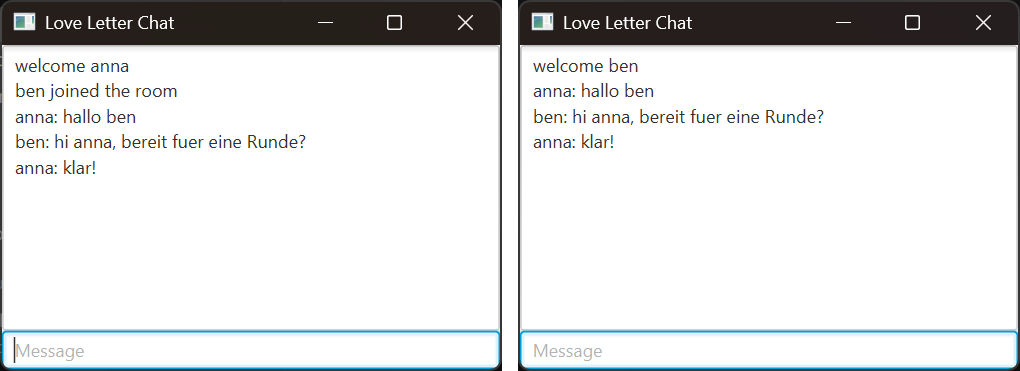
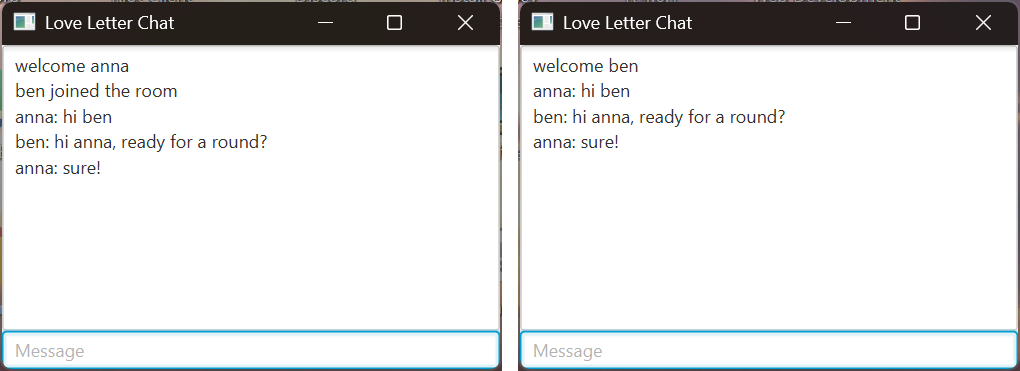
Translate README to English, add quick start and UML diagram

diff --git a/README.md b/README.md
@@ -1,14 +1,27 @@
-# Love Letter – Vorprojekt (SEP, LMU, WiSe 2026/27)
+# Love Letter – Preliminary Project (SEP, LMU, Winter Term 2026/27)
 
-Chatsystem über TCP: beliebig viele Clients melden sich mit einem eindeutigen Namen beim Server an
-und chatten miteinander. Dazu das Datenmodell für Love Letter (2–4 Spieler).
+Chat system over TCP: any number of clients log in to the server with a unique name and chat with
+each other. Also includes the data model for Love Letter (2–4 players).
 
-## Voraussetzungen
+## Quick start
 
-- JDK 27 (`java -version` muss 27 zeigen; sonst `JAVA_HOME` auf ein JDK 27 setzen)
-- Maven 3.9 oder neuer
-- JavaFX 27 muss nicht installiert werden: Maven lädt es als Dependency `org.openjfx:javafx-controls`
-  (der Maven-Weg aus den openjfx-docs), deshalb ist kein JavaFX-SDK und kein SDK-Pfad nötig.
+```powershell
+mvn package
+java -jar target/loveletter-jar-with-dependencies.jar server
+java -jar target/loveletter-jar-with-dependencies.jar gui
+java -jar target/loveletter-jar-with-dependencies.jar gui
+```
+
+Run each `java` command in its own terminal: one server, two chat windows. In each window, enter a
+name, then chat.
+
+## Requirements
+
+- JDK 27 (`java -version` must show 27; otherwise set `JAVA_HOME` to a JDK 27)
+- Maven 3.9 or newer
+- JavaFX 27 does not need to be installed: Maven downloads it as the dependency
+  `org.openjfx:javafx-controls` (the Maven approach from the openjfx docs), so no JavaFX SDK and no
+  SDK path are needed.
 
 ## Build
 
@@ -16,124 +29,126 @@ und chatten miteinander. Dazu das Datenmodell für Love Letter (2–4 Spieler).
 mvn package
 ```
 
-Baut und testet das Projekt. Ergebnis: `target/loveletter-jar-with-dependencies.jar` (enthält Gson
-und JavaFX für das Betriebssystem, auf dem gebaut wurde).
+Builds and tests the project. Result: `target/loveletter-jar-with-dependencies.jar` (contains Gson
+and JavaFX for the operating system it was built on).
 
-## Start
+## Running
 
-Server (Standard-Port 1337):
+Server (default port 1337):
 
 ```powershell
 java -jar target/loveletter-jar-with-dependencies.jar server
 java -jar target/loveletter-jar-with-dependencies.jar server 4000
 ```
 
-Client (Standard: `localhost`, Port 1337), in einem eigenen Terminal pro Client:
+Client (default: `localhost`, port 1337), in a separate terminal per client:
 
 ```powershell
 java -jar target/loveletter-jar-with-dependencies.jar client
 java -jar target/loveletter-jar-with-dependencies.jar client localhost 4000
 ```
 
-Der Client fragt nach einem Namen. Danach wird jede eingegebene Zeile an alle gesendet.
-`bye` oder `/bye` beendet die Verbindung.
+The client asks for a name. After that, every line entered is sent to everyone.
+`bye` or `/bye` ends the connection.
 
-Chatfenster (JavaFX, Standard: `localhost`, Port 1337):
+Chat window (JavaFX, default: `localhost`, port 1337):
 
 ```powershell
 java -jar target/loveletter-jar-with-dependencies.jar gui
 java -jar target/loveletter-jar-with-dependencies.jar gui localhost 4000
 ```
 
-Unten zuerst den Namen eingeben und Enter drücken, danach jede Zeile mit Enter senden – wie beim
-Konsolen-Client. Das Fenster nutzt denselben Server und dasselbe Protokoll wie der Konsolen-Client, beide
-können also miteinander chatten. Fenster schließen beendet die Verbindung.
+First enter the name at the bottom and press Enter, then send each line with Enter – just like the
+console client. The window uses the same server and the same protocol as the console client, so the
+two can chat with each other. Closing the window ends the connection.
 
-![Zwei Chatfenster: anna und ben chatten miteinander](docs/screenshots/chat-two-clients.png)
+![Two chat windows: anna and ben chatting with each other](docs/screenshots/chat-two-clients.png)
 
-Ist der Name schon vergeben, bleibt das Feld bei der Namenseingabe:
+If the name is already taken, the field stays on name input:
 
-![Chatfenster mit Fehlermeldung „name already taken: anna“](docs/screenshots/login-error.png)
+![Chat window with the error message "name already taken: anna"](docs/screenshots/login-error.png)
 
-Namensregeln: Leerzeichen am Rand werden entfernt; der Name darf nicht leer sein, keine Leerzeichen
-enthalten und nicht mit `/` beginnen. Groß-/Kleinschreibung zählt (`anna` und `Anna` sind verschieden).
+Name rules: leading and trailing spaces are removed; the name must not be empty, must not contain
+spaces and must not start with `/`. Names are case-sensitive (`anna` and `Anna` are different).
 
 ## VS Code
 
-Benötigt die Extension **Extension Pack for Java** (`vscjava.vscode-java-pack`); VS Code schlägt sie
-beim Öffnen des Ordners vor. Die Dateien in `.vscode/` enthalten rechnerspezifische JDK-Pfade und
-sind deshalb nicht im Git (`.gitignore`):
+Requires the extension **Extension Pack for Java** (`vscjava.vscode-java-pack`); VS Code suggests it
+when the folder is opened. The files in `.vscode/` contain machine-specific JDK paths and are
+therefore not in Git (`.gitignore`):
 
-| Datei             | Zweck                                                                                    |
-|-------------------|------------------------------------------------------------------------------------------|
-| `settings.json`   | Java-Extension nutzt JDK 27; jedes neue Terminal bekommt `JAVA_HOME` und Java 27 im `PATH` |
-| `extensions.json` | empfiehlt das Extension Pack for Java                                                    |
-| `tasks.json`      | Tasks zum Bauen, Testen und Starten (Ctrl+Shift+P → *Tasks: Run Task*)                    |
-| `launch.json`     | Debug-Konfigurationen mit Breakpoints (Ctrl+Shift+D → Konfiguration wählen → F5)          |
+| File              | Purpose                                                                                     |
+|-------------------|---------------------------------------------------------------------------------------------|
+| `settings.json`   | Java extension uses JDK 27; every new terminal gets `JAVA_HOME` and Java 27 on the `PATH`   |
+| `extensions.json` | recommends the Extension Pack for Java                                                      |
+| `tasks.json`      | tasks for building, testing and running (Ctrl+Shift+P → *Tasks: Run Task*)                  |
+| `launch.json`     | debug configurations with breakpoints (Ctrl+Shift+D → select configuration → F5)            |
 
 Tasks:
 
-| Task                       | Was er tut                                                       |
-|----------------------------|------------------------------------------------------------------|
-| `Build jar`                | `mvn package` ohne Tests                                         |
-| `Test`                     | `mvn test`                                                       |
-| `Server`                   | baut die Jar und startet den Server                              |
-| `Client 1`, `Client 2`     | je ein Konsolen-Client                                           |
-| `Play: Server + 2 Clients` | Server, und sobald er lauscht, zwei Konsolen-Clients nebeneinander |
-| `GUI Client`, `GUI Client 2` | je ein Chatfenster                                             |
-| `Play: Server + 2 GUIs`    | Server, und sobald er lauscht, zwei Chatfenster                  |
+| Task                         | What it does                                                    |
+|------------------------------|-----------------------------------------------------------------|
+| `Build jar`                  | `mvn package` without tests                                     |
+| `Test`                       | `mvn test`                                                      |
+| `Server`                     | builds the jar and starts the server                            |
+| `Client 1`, `Client 2`       | one console client each                                         |
+| `Play: Server + 2 Clients`   | server, and as soon as it listens, two console clients side by side |
+| `GUI Client`, `GUI Client 2` | one chat window each                                            |
+| `Play: Server + 2 GUIs`      | server, and as soon as it listens, two chat windows             |
 
-Debug-Konfigurationen: `server`, `client` und `gui` starten `App` mit dem jeweiligen Modus im
-integrierten Terminal (dort nimmt der Konsolen-Client Eingaben an).
+Debug configurations: `server`, `client` and `gui` start `App` in the respective mode in the
+integrated terminal (where the console client accepts input).
 
-## Struktur
+## Structure
 
 ```
 src/main/java/de/lmu/sep/loveletter/
-  App.java             Einstieg: startet Server, Konsolen-Client oder Chatfenster
-  Server.java          nimmt Verbindungen an, verwaltet angemeldete Clients, Broadcast
-  ClientHandler.java   ein Thread pro Client auf dem Server: Login, Chat, Aufräumen
-  Client.java          Konsolen-Client: Login, Lese-Thread, Eingabe senden
-  ChatWindow.java      JavaFX-Chatfenster: Nachrichtenfeld + Eingabefeld, Lese-Thread per runLater
-  Message.java         eine Protokollnachricht, als JSON-Zeile (Gson)
+  App.java             entry point: starts server, console client or chat window
+  Server.java          accepts connections, manages logged-in clients, broadcast
+  ClientHandler.java   one thread per client on the server: login, chat, cleanup
+  Client.java          console client: login, reading thread, sending input
+  ChatWindow.java      JavaFX chat window: message area + input field, reading thread via runLater
+  Message.java         one protocol message, as a JSON line (Gson)
 src/main/java/de/lmu/sep/loveletter/model/
-  CardType.java        die 8 Kartenarten mit Wert und Anzahl im Deck
-  Deck.java            Nachziehstapel mit 16 Karten
-  Player.java          Hand, Ablagestapel, Tokens, Status in der Runde
-  Round.java           Deck, beiseitegelegte Karten, Spieler, wer am Zug ist
-  Game.java            Spieler und aktuelle Runde
+  CardType.java        the 8 card types with value and count in the deck
+  Deck.java            draw pile with 16 cards
+  Player.java          hand, discard pile, tokens, status in the round
+  Round.java           deck, set-aside cards, players, whose turn it is
+  Game.java            players and current round
 src/test/java/...      ServerTest, MessageTest, ChatIntegrationTest, model/DeckTest
-uml/classes.puml       UML-Klassendiagramm (PlantUML)
+uml/classes.puml       UML class diagram (PlantUML), rendered as loveletter-uml.png and .svg
 ```
 
-Das Modell enthält nur Daten, noch keine Spielregeln und keinen Netzwerk-Code.
+The model contains only data, no game rules yet and no network code.
 
-## Protokoll
+![UML class diagram](uml/loveletter-uml.svg)
 
-TCP, UTF-8, eine JSON-Nachricht pro Zeile. Jede Nachricht hat die Felder `type`, `name`, `text`;
-nicht benötigte Felder fehlen.
+## Protocol
 
-| Richtung        | type          | Felder     | Bedeutung                                    |
-|-----------------|---------------|------------|----------------------------------------------|
-| Client → Server | `LOGIN`       | name       | Anmeldung mit Namen                          |
-| Client → Server | `INPUT`       | text       | eine eingegebene Zeile                       |
-| Server → Client | `LOGIN_OK`    | –          | Name akzeptiert                              |
-| Server → Client | `LOGIN_ERROR` | text       | Name abgelehnt, mit Grund                    |
-| Server → Client | `INFO`        | text       | `welcome name`, `name joined/left the room`  |
-| Server → Client | `CHAT`        | name, text | Chatzeile von `name`, an alle inkl. Absender |
-| Server → Client | `ERROR`       | text       | unbekannter Command, nur an den Absender     |
+TCP, UTF-8, one JSON message per line. Every message has the fields `type`, `name`, `text`;
+fields that are not needed are omitted.
 
-Beispiel:
+| Direction       | type          | Fields     | Meaning                                         |
+|-----------------|---------------|------------|-------------------------------------------------|
+| Client → Server | `LOGIN`       | name       | log in with a name                              |
+| Client → Server | `INPUT`       | text       | one line entered                                |
+| Server → Client | `LOGIN_OK`    | –          | name accepted                                   |
+| Server → Client | `LOGIN_ERROR` | text       | name rejected, with reason                      |
+| Server → Client | `INFO`        | text       | `welcome name`, `name joined/left the room`     |
+| Server → Client | `CHAT`        | name, text | chat line from `name`, to everyone incl. sender |
+| Server → Client | `ERROR`       | text       | unknown command, only to the sender             |
+
+Example:
 
 ```
 → {"type":"LOGIN","name":"anna"}
 ← {"type":"LOGIN_OK"}
 ← {"type":"INFO","text":"welcome anna"}
-→ {"type":"INPUT","text":"hallo"}
-← {"type":"CHAT","name":"anna","text":"hallo"}
+→ {"type":"INPUT","text":"hello"}
+← {"type":"CHAT","name":"anna","text":"hello"}
 ```
 
-Ablauf: Nach `LOGIN_OK` bekommt der neue Client `welcome name`, alle anderen `name joined the room`.
-Eingaben ohne `/` gehen als `CHAT` an alle. `bye` und `/bye` beenden die Verbindung; jeder andere
-Text mit `/` am Anfang ergibt `ERROR`. Wird eine Verbindung beendet (per `bye` oder durch Abbruch),
-bekommen alle anderen `name left the room` und der Name ist wieder frei.
+Flow: after `LOGIN_OK`, the new client gets `welcome name`, all others get `name joined the room`.
+Input without `/` goes to everyone as `CHAT`. `bye` and `/bye` end the connection; any other text
+starting with `/` results in `ERROR`. When a connection ends (via `bye` or by dropping), all others
+get `name left the room` and the name is free again.
